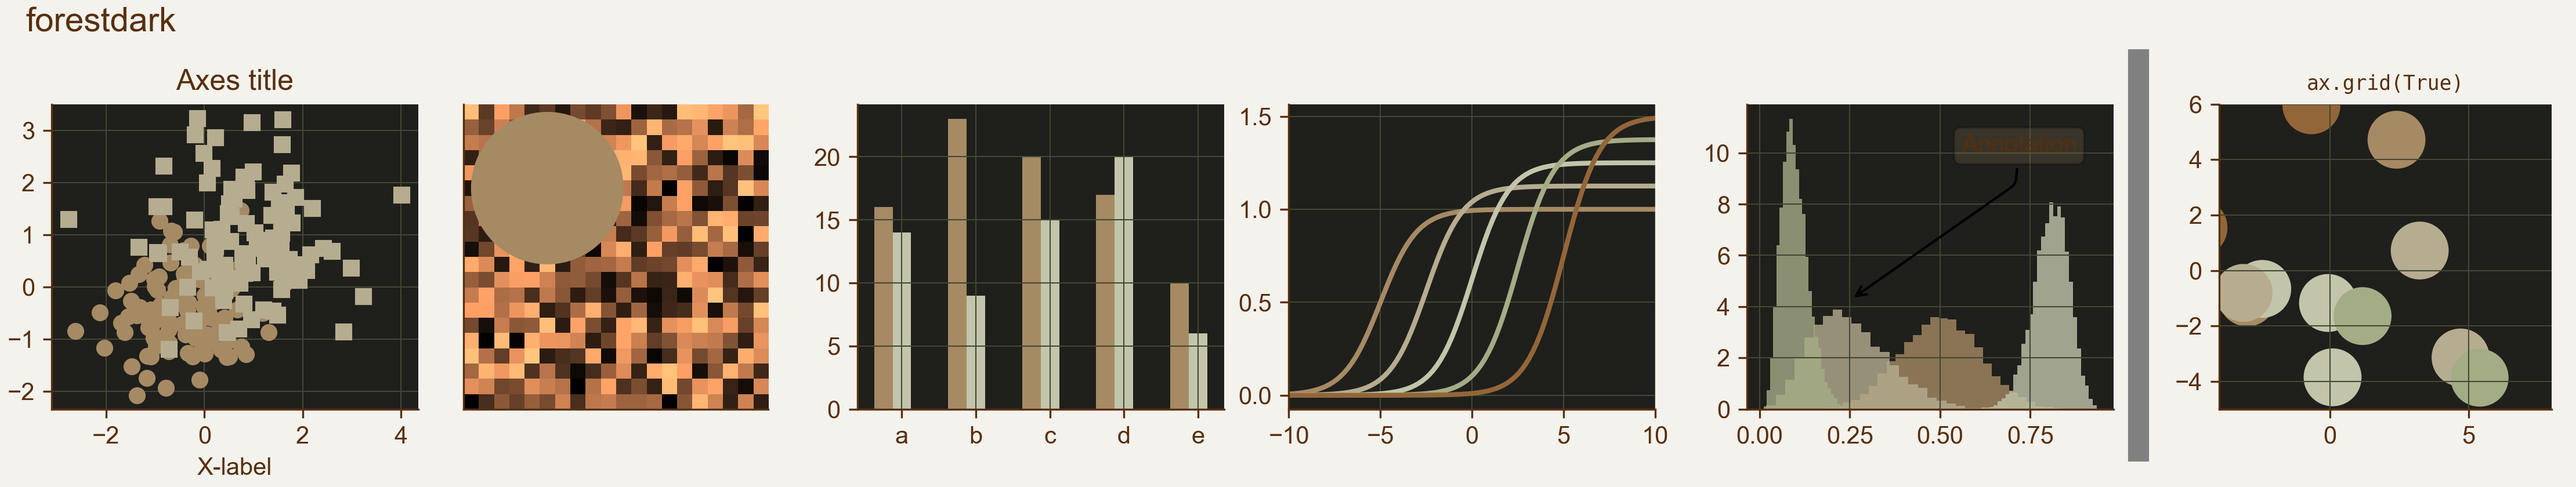
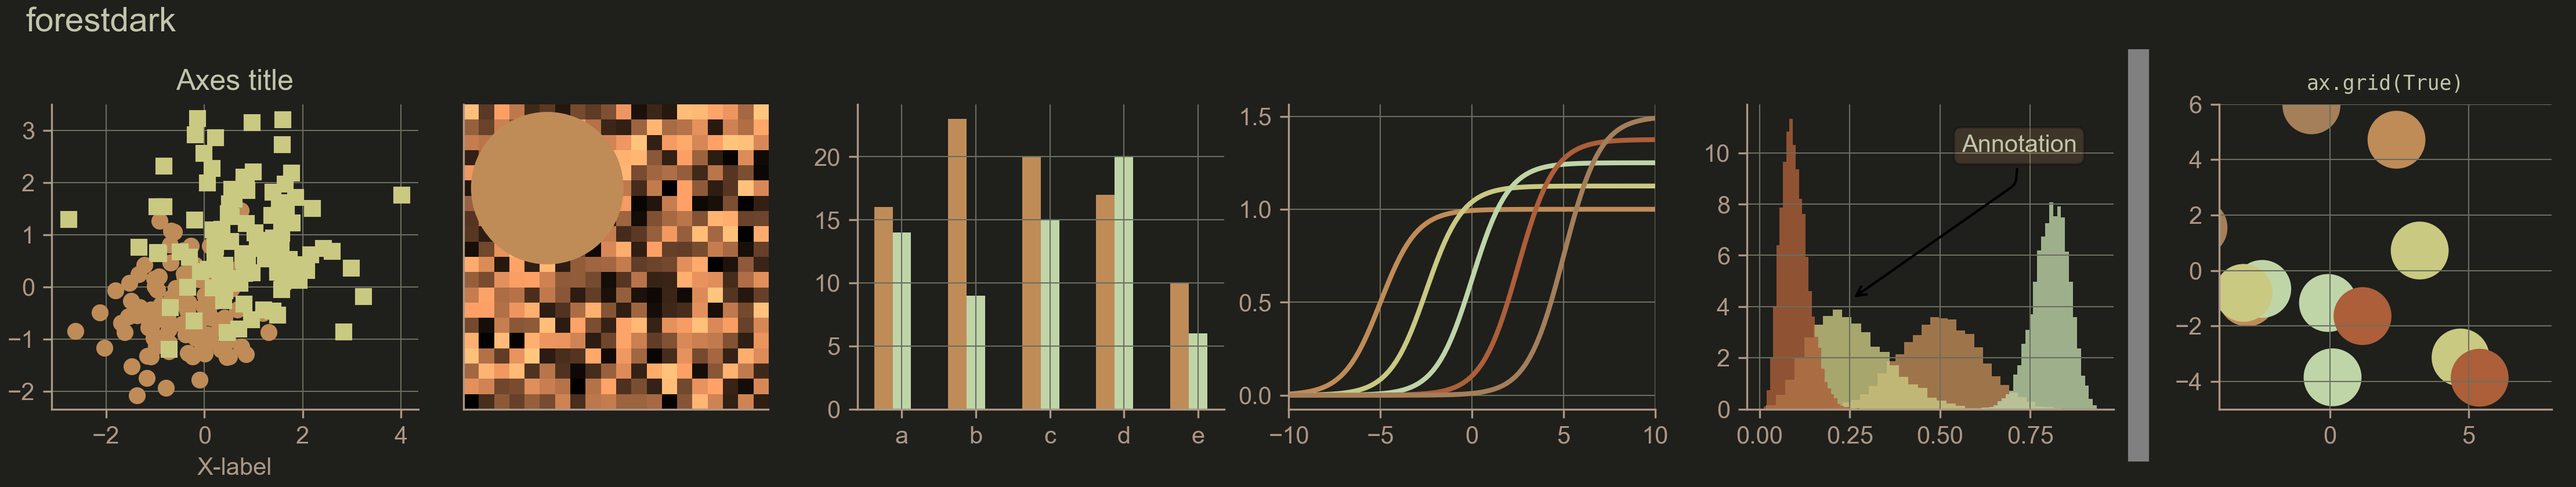
better forestdark and added test for readibility

diff --git a/tests/test_readibility.py b/tests/test_readibility.py
@@ -1,0 +1,90 @@
+import matplotlib.pyplot as plt
+import pytest
+
+import matplotlib as mpl
+import numpy as np
+
+
+# --- WCAG luminance and contrast functions ---
+def srgb_to_linear(c):
+    c = c / 255.0
+    return np.where(c <= 0.04045, c / 12.92, ((c + 0.055) / 1.055) ** 2.4)
+
+
+def relative_luminance(rgb):
+    r, g, b = srgb_to_linear(np.array(rgb))
+    return 0.2126 * r + 0.7152 * g + 0.0722 * b
+
+
+def contrast_ratio(c1, c2):
+    l1 = relative_luminance(c1)
+    l2 = relative_luminance(c2)
+    l_light, l_dark = max(l1, l2), min(l1, l2)
+    return (l_light + 0.05) / (l_dark + 0.05)
+
+
+# --- Single function to test one style ---
+def check_style_legibility(style_name, style_obj, threshold=4.5):
+    """Check that text, axis labels, and ticks meet WCAG AA contrast."""
+    with plt.style.context(style_obj):
+        style_dict = mpl.rcParams
+        background_color = mpl.colors.to_rgb(style_dict.get("axes.facecolor", "white"))
+
+        failures = []
+        for element_name, rc_key in [
+            ("Text", "text.color"),
+            ("Axis labels", "axes.labelcolor"),
+            ("Ticks", "xtick.color"),
+        ]:
+            foreground_color = mpl.colors.to_rgb(style_dict.get(rc_key, "black"))
+
+            # Convert to 0–255 for WCAG math
+            bg_rgb_255 = tuple(int(c * 255) for c in background_color)
+            fg_rgb_255 = tuple(int(c * 255) for c in foreground_color)
+
+            cr = contrast_ratio(bg_rgb_255, fg_rgb_255)
+            if cr < threshold:
+                failures.append(f"{element_name} contrast {cr:.2f} below {threshold}")
+
+        if failures:
+            fail_msg = f"Style '{style_name}' failed contrast checks:\n" + "\n".join(
+                failures
+            )
+            pytest.fail(fail_msg)
+
+
+# --- Pytest tests for each style ---
+def test_charcoal_legibility():
+    from cool_styles import charcoal
+
+    check_style_legibility("charcoal", charcoal)
+
+
+def test_forestdark_legibility():
+    from cool_styles import forestdark
+
+    check_style_legibility("forestdark", forestdark)
+
+
+def test_forestlight_legibility():
+    from cool_styles import forestlight
+
+    check_style_legibility("forestlight", forestlight)
+
+
+def test_ivorygrid_legibility():
+    from cool_styles import ivorygrid
+
+    check_style_legibility("ivorygrid", ivorygrid)
+
+
+def test_sealight_legibility():
+    from cool_styles import sealight
+
+    check_style_legibility("sealight", sealight)
+
+
+def test_coastalarvest_legibility():
+    from cool_styles import coastalarvest
+
+    check_style_legibility("coastalarvest", coastalarvest)

diff --git a/src/cool_styles/__init__.py b/src/cool_styles/__init__.py
@@ -13,6 +13,7 @@ avaiable_styles = [
 
 charcoal: str = _style_path("charcoal.mplstyle").as_posix()
 forestdark: str = _style_path("forestdark.mplstyle").as_posix()
+forestdark2: str = _style_path("forestdark2.mplstyle").as_posix()
 forestlight: str = _style_path("forestlight.mplstyle").as_posix()
 ivorygrid: str = _style_path("ivorygrid.mplstyle").as_posix()
 sealight: str = _style_path("sealight.mplstyle").as_posix()

diff --git a/tests/test_styles.py b/tests/test_styles.py
@@ -182,6 +182,7 @@ def test_sealight_style():
         plot_figure(style_label="sealight")
         plt.savefig(img_path.joinpath("sealight.png"))
 
+
 def test_coastalarvest_style():
     from cool_styles import coastalarvest
 

diff --git a/README.md b/README.md
@@ -1,1 +1,91 @@
-# personal_mpl_style
+# Cool Styles for Matplotlib
+
+A collection of carefully crafted, visually appealing matplotlib styles for your data visualization needs.
+
+## Installation
+
+At the moment the package is not yet on pypi.
+// ```bash
+// pip install cool_styles
+
+## Usage
+
+```python
+import matplotlib.pyplot as plt
+import cool_styles
+import numpy as np
+
+# Apply a style
+plt.style.use(cool_styles.sealight)
+
+# Create your plot
+x = np.linspace(0, 10, 100)
+plt.figure()
+plt.plot(x, np.sin(x), label='Sin(x)')
+plt.plot(x, np.cos(x), label='Cos(x)')
+plt.legend()
+plt.title('Trigonometric Functions')
+plt.xlabel('x')
+plt.ylabel('y')
+plt.show()
+```
+
+## Available Styles
+
+### Sea Light
+
+A light ocean-inspired theme with varying shades of blue. Features a clean, minimal design with a light background and deep blue text. The color palette consists of different blue hues, making it perfect for water-related data, financial visualizations, or any professional presentation.
+
+![Sea Light](test_images/sealight.png)
+
+### Coastal Harvest
+
+A warm, sophisticated color palette inspired by autumn harbors and coastal towns. This style combines deep navy, burnt orange, golden yellow, sage green, and teal green for a balanced, natural look. Ideal for seasonal data, environmental sciences, or any visualization that benefits from a warm, natural color scheme.
+
+![Coastal Harvest](test_images/coastalarvest.png)
+
+### Charcoal
+
+A bold, modern style with high contrast and clean lines. Features a versatile color palette that includes teal, orange, and yellow accents. Perfect for presentations, reports, and visualizations that need to make a strong visual impact.
+
+![Charcoal](test_images/charcoal.png)
+
+### Forest Dark
+
+A dark woodland-inspired theme with earthy tones and muted contrast. Uses a dark background with forest brown text and an earthy color palette. Excellent for night mode applications, environmental data, or creating a calm visual experience with reduced eye strain.
+
+![Forest Dark](test_images/forestdark.png)
+
+### Forest Light
+
+A light woodland-inspired theme with natural earthy tones. Uses a light parchment background with forest green text and a natural color palette. Great for environmental sciences, agricultural data, or any visualization that benefits from an organic, natural aesthetic.
+
+![Forest Light](test_images/forestlight.png)
+
+### Ivory Grid
+
+A dark theme with prominent grid lines and vibrant color accents. The dark background makes the colorful data elements pop while maintaining readability with light text and grid lines. Perfect for complex visualizations where data clarity against a dark background is preferred.
+
+![Ivory Grid](test_images/ivorygrid.png)
+
+## Features
+
+- Golden ratio inspired figure proportions for aesthetically pleasing visualizations
+- High DPI settings for crisp rendering
+- Carefully selected color palettes for data clarity and visual appeal
+- Consistent design elements across all styles
+- Optimized for both screen display and print output
+- Compatible with various plot types (line plots, scatter plots, histograms, etc.)
+
+## Requirements
+
+- Python ≥ 3.11
+- matplotlib ≥ 3.10.5
+
+## Contributing
+
+Contributions are welcome! Please feel free to submit a Pull Request.
+
+## License
+
+This project is licensed under the MIT License - see the LICENSE file for details.
